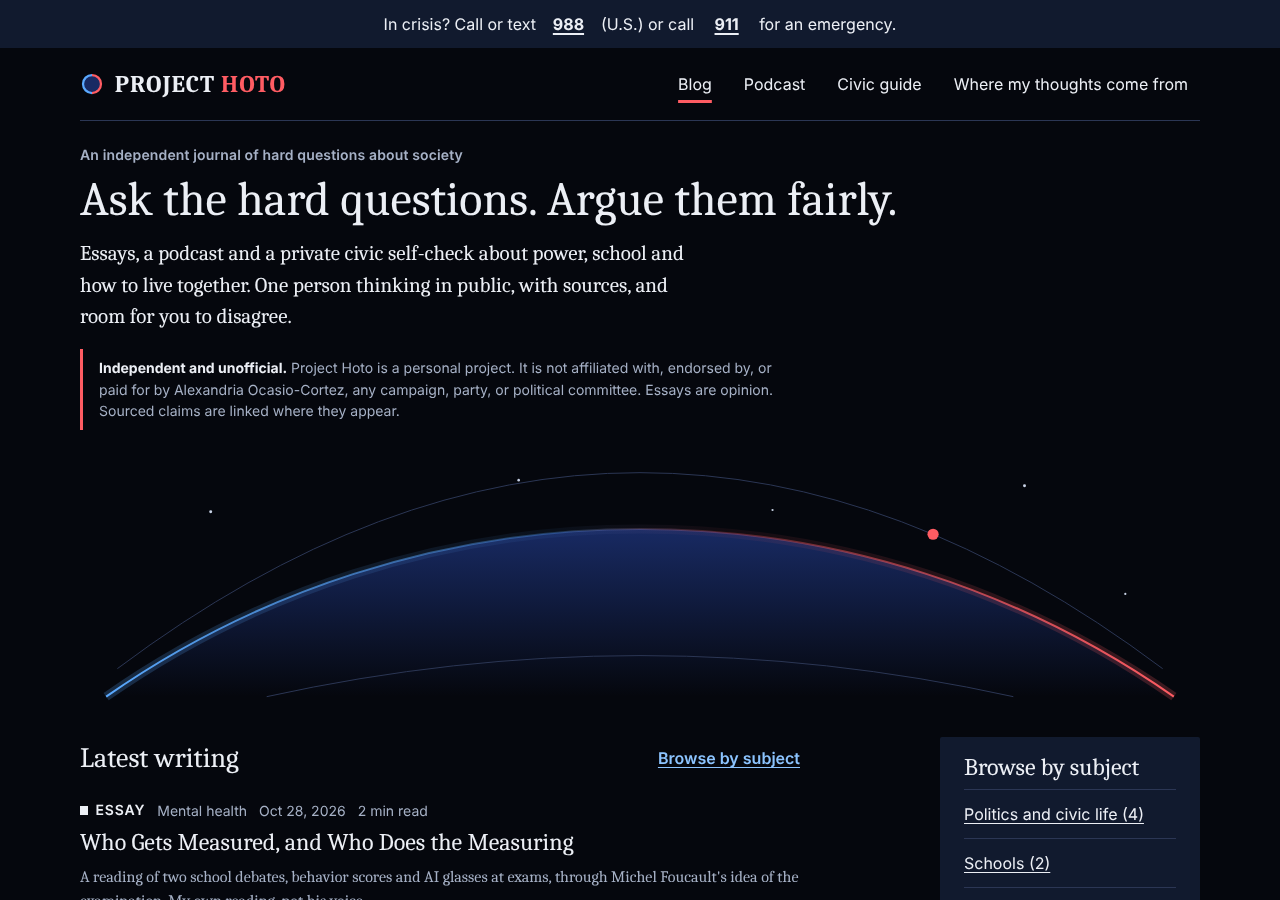
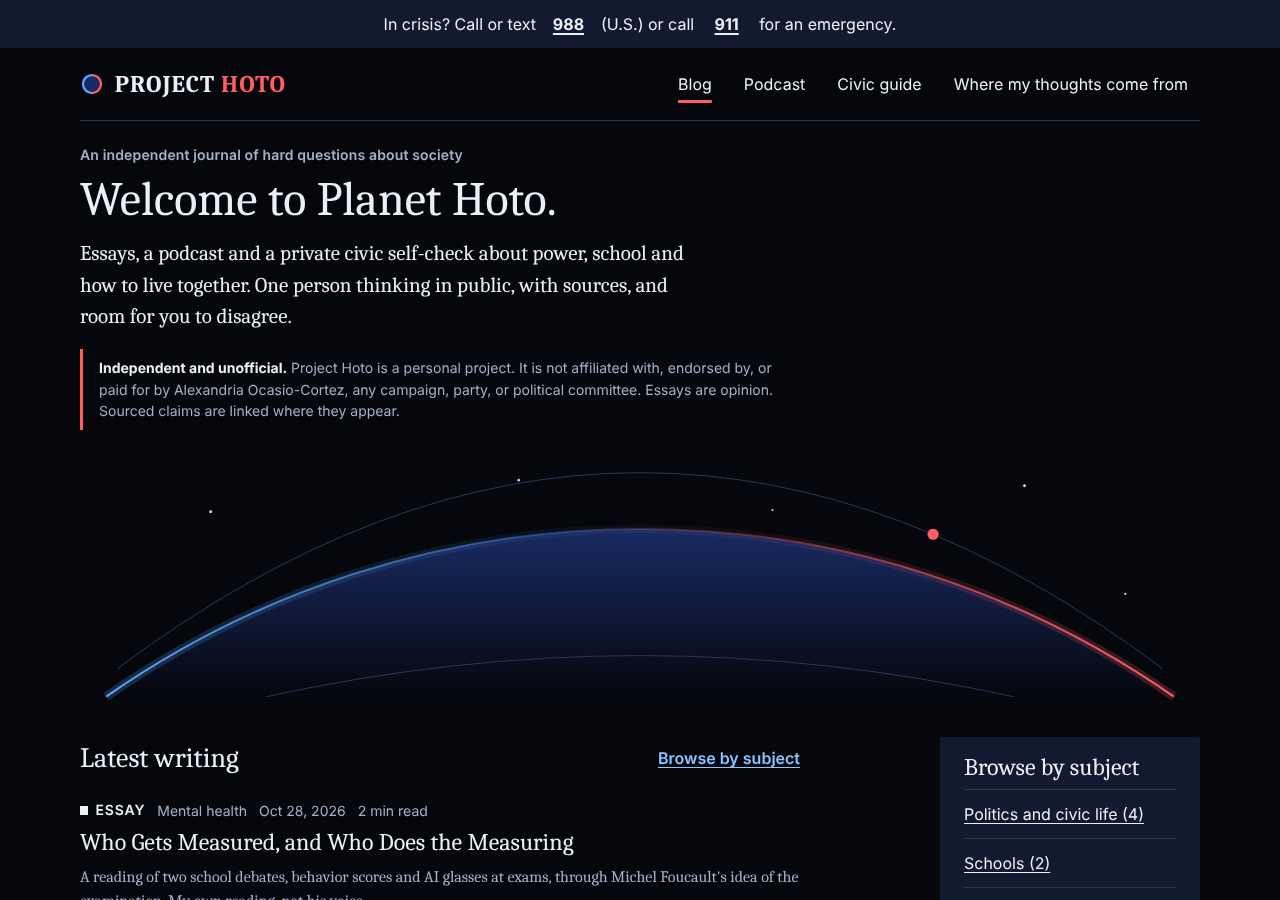
Replace the hero and footer slogan
Homepage h1 is now "Welcome to Planet Hoto." and the footer mark reads
"Hoto's thoughts". Refreshed the two dark home screenshots.

Claude-Session: https://claude.ai/code/session_01TheQUBGtYoBVvAZhtYJEkf

Changed region(s): [[0.0625, 0.1867, 0.6875, 0.2489]]

diff --git a/docs/blog/index.html b/docs/blog/index.html
@@ -26,7 +26,7 @@
 <section class="hero" aria-labelledby="hero-h">
 <div class="hero-text">
 <p class="kicker sc">An independent journal of hard questions about society</p>
-<h1 id="hero-h">Ask the hard questions. Argue them fairly.</h1>
+<h1 id="hero-h">Welcome to Planet Hoto.</h1>
 <p class="lede">Essays, a podcast and a private civic self-check about power, school and how to live together. One person thinking in public, with sources, and room for you to disagree.</p>
 <p class="start-jump"><a class="jump" href="#start">Start here: three questions to begin with</a></p>
 <p class="unofficial"><strong>Independent and unofficial.</strong> Project Hoto is a personal project. It is not affiliated with, endorsed by, or paid for by Alexandria Ocasio-Cortez, any campaign, party, or political committee. Essays are opinion. Sourced claims are linked where they appear.</p>
@@ -91,7 +91,7 @@
 
 </main>
 <footer>
-<p class="foot-mark"><svg class="glyph" viewBox="0 0 24 24" width="24" height="24" aria-hidden="true" focusable="false"><circle class="g-body" cx="12" cy="12" r="9"/><path class="g-day" d="M12 3a9 9 0 0 0 0 18"/><path class="g-dusk" d="M12 3a9 9 0 0 1 0 18"/></svg>Ask the hard questions. Argue them fairly.</p>
+<p class="foot-mark"><svg class="glyph" viewBox="0 0 24 24" width="24" height="24" aria-hidden="true" focusable="false"><circle class="g-body" cx="12" cy="12" r="9"/><path class="g-day" d="M12 3a9 9 0 0 0 0 18"/><path class="g-dusk" d="M12 3a9 9 0 0 1 0 18"/></svg>Hoto's thoughts</p>
 <nav aria-label="Footer"><a href="/blog/">Blog</a><a href="/podcasts/">Podcast</a><a href="/civic/">Civic guide</a><a href="/how-i-argue/">Where my thoughts come from</a></nav>
 <p>Independent and unofficial. Not affiliated with AOC or any campaign.</p>
 <p>These are not my original ideas. I post what I have learned from my past teachers, the professors of SDSU.</p>

diff --git a/docs/index.html b/docs/index.html
@@ -26,7 +26,7 @@
 <section class="hero" aria-labelledby="hero-h">
 <div class="hero-text">
 <p class="kicker sc">An independent journal of hard questions about society</p>
-<h1 id="hero-h">Ask the hard questions. Argue them fairly.</h1>
+<h1 id="hero-h">Welcome to Planet Hoto.</h1>
 <p class="lede">Essays, a podcast and a private civic self-check about power, school and how to live together. One person thinking in public, with sources, and room for you to disagree.</p>
 <p class="start-jump"><a class="jump" href="#start">Start here: three questions to begin with</a></p>
 <p class="unofficial"><strong>Independent and unofficial.</strong> Project Hoto is a personal project. It is not affiliated with, endorsed by, or paid for by Alexandria Ocasio-Cortez, any campaign, party, or political committee. Essays are opinion. Sourced claims are linked where they appear.</p>
@@ -91,7 +91,7 @@
 
 </main>
 <footer>
-<p class="foot-mark"><svg class="glyph" viewBox="0 0 24 24" width="24" height="24" aria-hidden="true" focusable="false"><circle class="g-body" cx="12" cy="12" r="9"/><path class="g-day" d="M12 3a9 9 0 0 0 0 18"/><path class="g-dusk" d="M12 3a9 9 0 0 1 0 18"/></svg>Ask the hard questions. Argue them fairly.</p>
+<p class="foot-mark"><svg class="glyph" viewBox="0 0 24 24" width="24" height="24" aria-hidden="true" focusable="false"><circle class="g-body" cx="12" cy="12" r="9"/><path class="g-day" d="M12 3a9 9 0 0 0 0 18"/><path class="g-dusk" d="M12 3a9 9 0 0 1 0 18"/></svg>Hoto's thoughts</p>
 <nav aria-label="Footer"><a href="/blog/">Blog</a><a href="/podcasts/">Podcast</a><a href="/civic/">Civic guide</a><a href="/how-i-argue/">Where my thoughts come from</a></nav>
 <p>Independent and unofficial. Not affiliated with AOC or any campaign.</p>
 <p>These are not my original ideas. I post what I have learned from my past teachers, the professors of SDSU.</p>

diff --git a/docs/blog/fearless-speech-for-regular-people/index.html b/docs/blog/fearless-speech-for-regular-people/index.html
@@ -102,7 +102,7 @@
 
 </main>
 <footer>
-<p class="foot-mark"><svg class="glyph" viewBox="0 0 24 24" width="24" height="24" aria-hidden="true" focusable="false"><circle class="g-body" cx="12" cy="12" r="9"/><path class="g-day" d="M12 3a9 9 0 0 0 0 18"/><path class="g-dusk" d="M12 3a9 9 0 0 1 0 18"/></svg>Ask the hard questions. Argue them fairly.</p>
+<p class="foot-mark"><svg class="glyph" viewBox="0 0 24 24" width="24" height="24" aria-hidden="true" focusable="false"><circle class="g-body" cx="12" cy="12" r="9"/><path class="g-day" d="M12 3a9 9 0 0 0 0 18"/><path class="g-dusk" d="M12 3a9 9 0 0 1 0 18"/></svg>Hoto's thoughts</p>
 <nav aria-label="Footer"><a href="/blog/">Blog</a><a href="/podcasts/">Podcast</a><a href="/civic/">Civic guide</a><a href="/how-i-argue/">Where my thoughts come from</a></nav>
 <p>Independent and unofficial. Not affiliated with AOC or any campaign.</p>
 <p>These are not my original ideas. I post what I have learned from my past teachers, the professors of SDSU.</p>

diff --git a/docs/blog/what-im-learning-about-third-parties/index.html b/docs/blog/what-im-learning-about-third-parties/index.html
@@ -103,7 +103,7 @@
 
 </main>
 <footer>
-<p class="foot-mark"><svg class="glyph" viewBox="0 0 24 24" width="24" height="24" aria-hidden="true" focusable="false"><circle class="g-body" cx="12" cy="12" r="9"/><path class="g-day" d="M12 3a9 9 0 0 0 0 18"/><path class="g-dusk" d="M12 3a9 9 0 0 1 0 18"/></svg>Ask the hard questions. Argue them fairly.</p>
+<p class="foot-mark"><svg class="glyph" viewBox="0 0 24 24" width="24" height="24" aria-hidden="true" focusable="false"><circle class="g-body" cx="12" cy="12" r="9"/><path class="g-day" d="M12 3a9 9 0 0 0 0 18"/><path class="g-dusk" d="M12 3a9 9 0 0 1 0 18"/></svg>Hoto's thoughts</p>
 <nav aria-label="Footer"><a href="/blog/">Blog</a><a href="/podcasts/">Podcast</a><a href="/civic/">Civic guide</a><a href="/how-i-argue/">Where my thoughts come from</a></nav>
 <p>Independent and unofficial. Not affiliated with AOC or any campaign.</p>
 <p>These are not my original ideas. I post what I have learned from my past teachers, the professors of SDSU.</p>

diff --git a/docs/blog/when-watching-students-becomes-the-lesson/index.html b/docs/blog/when-watching-students-becomes-the-lesson/index.html
@@ -125,7 +125,7 @@
 
 </main>
 <footer>
-<p class="foot-mark"><svg class="glyph" viewBox="0 0 24 24" width="24" height="24" aria-hidden="true" focusable="false"><circle class="g-body" cx="12" cy="12" r="9"/><path class="g-day" d="M12 3a9 9 0 0 0 0 18"/><path class="g-dusk" d="M12 3a9 9 0 0 1 0 18"/></svg>Ask the hard questions. Argue them fairly.</p>
+<p class="foot-mark"><svg class="glyph" viewBox="0 0 24 24" width="24" height="24" aria-hidden="true" focusable="false"><circle class="g-body" cx="12" cy="12" r="9"/><path class="g-day" d="M12 3a9 9 0 0 0 0 18"/><path class="g-dusk" d="M12 3a9 9 0 0 1 0 18"/></svg>Hoto's thoughts</p>
 <nav aria-label="Footer"><a href="/blog/">Blog</a><a href="/podcasts/">Podcast</a><a href="/civic/">Civic guide</a><a href="/how-i-argue/">Where my thoughts come from</a></nav>
 <p>Independent and unofficial. Not affiliated with AOC or any campaign.</p>
 <p>These are not my original ideas. I post what I have learned from my past teachers, the professors of SDSU.</p>

diff --git a/docs/podcasts/index.html b/docs/podcasts/index.html
@@ -227,7 +227,7 @@
 
 </main>
 <footer>
-<p class="foot-mark"><svg class="glyph" viewBox="0 0 24 24" width="24" height="24" aria-hidden="true" focusable="false"><circle class="g-body" cx="12" cy="12" r="9"/><path class="g-day" d="M12 3a9 9 0 0 0 0 18"/><path class="g-dusk" d="M12 3a9 9 0 0 1 0 18"/></svg>Ask the hard questions. Argue them fairly.</p>
+<p class="foot-mark"><svg class="glyph" viewBox="0 0 24 24" width="24" height="24" aria-hidden="true" focusable="false"><circle class="g-body" cx="12" cy="12" r="9"/><path class="g-day" d="M12 3a9 9 0 0 0 0 18"/><path class="g-dusk" d="M12 3a9 9 0 0 1 0 18"/></svg>Hoto's thoughts</p>
 <nav aria-label="Footer"><a href="/blog/">Blog</a><a href="/podcasts/">Podcast</a><a href="/civic/">Civic guide</a><a href="/how-i-argue/">Where my thoughts come from</a></nav>
 <p>Independent and unofficial. Not affiliated with AOC or any campaign.</p>
 <p>These are not my original ideas. I post what I have learned from my past teachers, the professors of SDSU.</p>

diff --git a/docs/404.html b/docs/404.html
@@ -31,7 +31,7 @@
 
 </main>
 <footer>
-<p class="foot-mark"><svg class="glyph" viewBox="0 0 24 24" width="24" height="24" aria-hidden="true" focusable="false"><circle class="g-body" cx="12" cy="12" r="9"/><path class="g-day" d="M12 3a9 9 0 0 0 0 18"/><path class="g-dusk" d="M12 3a9 9 0 0 1 0 18"/></svg>Ask the hard questions. Argue them fairly.</p>
+<p class="foot-mark"><svg class="glyph" viewBox="0 0 24 24" width="24" height="24" aria-hidden="true" focusable="false"><circle class="g-body" cx="12" cy="12" r="9"/><path class="g-day" d="M12 3a9 9 0 0 0 0 18"/><path class="g-dusk" d="M12 3a9 9 0 0 1 0 18"/></svg>Hoto's thoughts</p>
 <nav aria-label="Footer"><a href="/blog/">Blog</a><a href="/podcasts/">Podcast</a><a href="/civic/">Civic guide</a><a href="/how-i-argue/">Where my thoughts come from</a></nav>
 <p>Independent and unofficial. Not affiliated with AOC or any campaign.</p>
 <p>These are not my original ideas. I post what I have learned from my past teachers, the professors of SDSU.</p>

diff --git a/docs/blog/a-most-agreeable-war/index.html b/docs/blog/a-most-agreeable-war/index.html
@@ -74,7 +74,7 @@
 
 </main>
 <footer>
-<p class="foot-mark"><svg class="glyph" viewBox="0 0 24 24" width="24" height="24" aria-hidden="true" focusable="false"><circle class="g-body" cx="12" cy="12" r="9"/><path class="g-day" d="M12 3a9 9 0 0 0 0 18"/><path class="g-dusk" d="M12 3a9 9 0 0 1 0 18"/></svg>Ask the hard questions. Argue them fairly.</p>
+<p class="foot-mark"><svg class="glyph" viewBox="0 0 24 24" width="24" height="24" aria-hidden="true" focusable="false"><circle class="g-body" cx="12" cy="12" r="9"/><path class="g-day" d="M12 3a9 9 0 0 0 0 18"/><path class="g-dusk" d="M12 3a9 9 0 0 1 0 18"/></svg>Hoto's thoughts</p>
 <nav aria-label="Footer"><a href="/blog/">Blog</a><a href="/podcasts/">Podcast</a><a href="/civic/">Civic guide</a><a href="/how-i-argue/">Where my thoughts come from</a></nav>
 <p>Independent and unofficial. Not affiliated with AOC or any campaign.</p>
 <p>These are not my original ideas. I post what I have learned from my past teachers, the professors of SDSU.</p>

diff --git a/docs/blog/a-president-who-understands-how-systems-feel/index.html b/docs/blog/a-president-who-understands-how-systems-feel/index.html
@@ -53,7 +53,7 @@
 
 </main>
 <footer>
-<p class="foot-mark"><svg class="glyph" viewBox="0 0 24 24" width="24" height="24" aria-hidden="true" focusable="false"><circle class="g-body" cx="12" cy="12" r="9"/><path class="g-day" d="M12 3a9 9 0 0 0 0 18"/><path class="g-dusk" d="M12 3a9 9 0 0 1 0 18"/></svg>Ask the hard questions. Argue them fairly.</p>
+<p class="foot-mark"><svg class="glyph" viewBox="0 0 24 24" width="24" height="24" aria-hidden="true" focusable="false"><circle class="g-body" cx="12" cy="12" r="9"/><path class="g-day" d="M12 3a9 9 0 0 0 0 18"/><path class="g-dusk" d="M12 3a9 9 0 0 1 0 18"/></svg>Hoto's thoughts</p>
 <nav aria-label="Footer"><a href="/blog/">Blog</a><a href="/podcasts/">Podcast</a><a href="/civic/">Civic guide</a><a href="/how-i-argue/">Where my thoughts come from</a></nav>
 <p>Independent and unofficial. Not affiliated with AOC or any campaign.</p>
 <p>These are not my original ideas. I post what I have learned from my past teachers, the professors of SDSU.</p>

diff --git a/docs/blog/a-rest-from-happiness/index.html b/docs/blog/a-rest-from-happiness/index.html
@@ -91,7 +91,7 @@
 
 </main>
 <footer>
-<p class="foot-mark"><svg class="glyph" viewBox="0 0 24 24" width="24" height="24" aria-hidden="true" focusable="false"><circle class="g-body" cx="12" cy="12" r="9"/><path class="g-day" d="M12 3a9 9 0 0 0 0 18"/><path class="g-dusk" d="M12 3a9 9 0 0 1 0 18"/></svg>Ask the hard questions. Argue them fairly.</p>
+<p class="foot-mark"><svg class="glyph" viewBox="0 0 24 24" width="24" height="24" aria-hidden="true" focusable="false"><circle class="g-body" cx="12" cy="12" r="9"/><path class="g-day" d="M12 3a9 9 0 0 0 0 18"/><path class="g-dusk" d="M12 3a9 9 0 0 1 0 18"/></svg>Hoto's thoughts</p>
 <nav aria-label="Footer"><a href="/blog/">Blog</a><a href="/podcasts/">Podcast</a><a href="/civic/">Civic guide</a><a href="/how-i-argue/">Where my thoughts come from</a></nav>
 <p>Independent and unofficial. Not affiliated with AOC or any campaign.</p>
 <p>These are not my original ideas. I post what I have learned from my past teachers, the professors of SDSU.</p>

diff --git a/docs/blog/a-school-should-be-a-harbor/index.html b/docs/blog/a-school-should-be-a-harbor/index.html
@@ -89,7 +89,7 @@
 
 </main>
 <footer>
-<p class="foot-mark"><svg class="glyph" viewBox="0 0 24 24" width="24" height="24" aria-hidden="true" focusable="false"><circle class="g-body" cx="12" cy="12" r="9"/><path class="g-day" d="M12 3a9 9 0 0 0 0 18"/><path class="g-dusk" d="M12 3a9 9 0 0 1 0 18"/></svg>Ask the hard questions. Argue them fairly.</p>
+<p class="foot-mark"><svg class="glyph" viewBox="0 0 24 24" width="24" height="24" aria-hidden="true" focusable="false"><circle class="g-body" cx="12" cy="12" r="9"/><path class="g-day" d="M12 3a9 9 0 0 0 0 18"/><path class="g-dusk" d="M12 3a9 9 0 0 1 0 18"/></svg>Hoto's thoughts</p>
 <nav aria-label="Footer"><a href="/blog/">Blog</a><a href="/podcasts/">Podcast</a><a href="/civic/">Civic guide</a><a href="/how-i-argue/">Where my thoughts come from</a></nav>
 <p>Independent and unofficial. Not affiliated with AOC or any campaign.</p>
 <p>These are not my original ideas. I post what I have learned from my past teachers, the professors of SDSU.</p>

diff --git a/docs/blog/how-great-thinkers-are-made/index.html b/docs/blog/how-great-thinkers-are-made/index.html
@@ -89,7 +89,7 @@
 
 </main>
 <footer>
-<p class="foot-mark"><svg class="glyph" viewBox="0 0 24 24" width="24" height="24" aria-hidden="true" focusable="false"><circle class="g-body" cx="12" cy="12" r="9"/><path class="g-day" d="M12 3a9 9 0 0 0 0 18"/><path class="g-dusk" d="M12 3a9 9 0 0 1 0 18"/></svg>Ask the hard questions. Argue them fairly.</p>
+<p class="foot-mark"><svg class="glyph" viewBox="0 0 24 24" width="24" height="24" aria-hidden="true" focusable="false"><circle class="g-body" cx="12" cy="12" r="9"/><path class="g-day" d="M12 3a9 9 0 0 0 0 18"/><path class="g-dusk" d="M12 3a9 9 0 0 1 0 18"/></svg>Hoto's thoughts</p>
 <nav aria-label="Footer"><a href="/blog/">Blog</a><a href="/podcasts/">Podcast</a><a href="/civic/">Civic guide</a><a href="/how-i-argue/">Where my thoughts come from</a></nav>
 <p>Independent and unofficial. Not affiliated with AOC or any campaign.</p>
 <p>These are not my original ideas. I post what I have learned from my past teachers, the professors of SDSU.</p>
